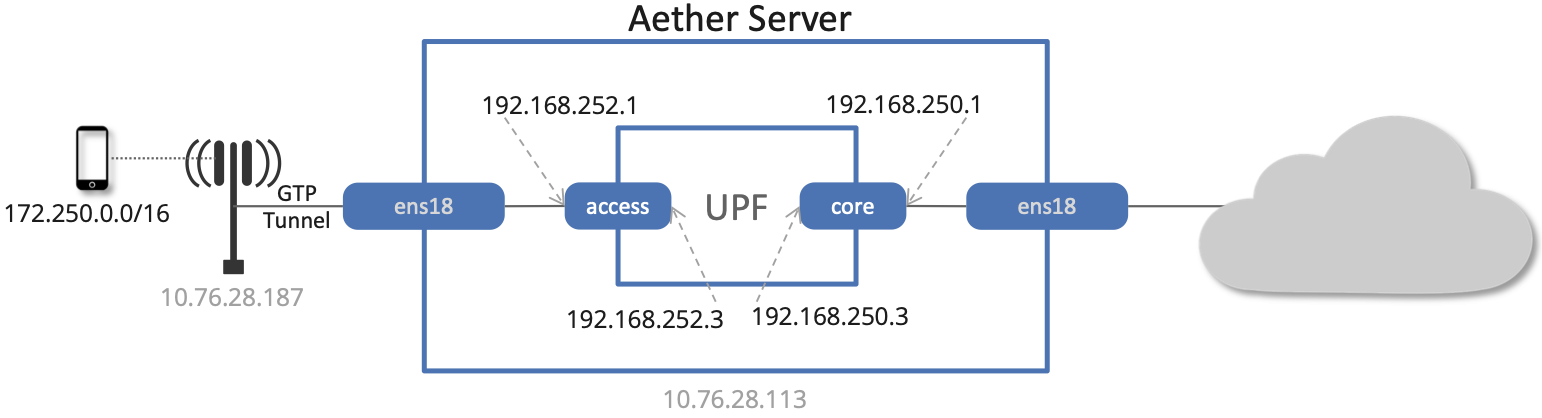
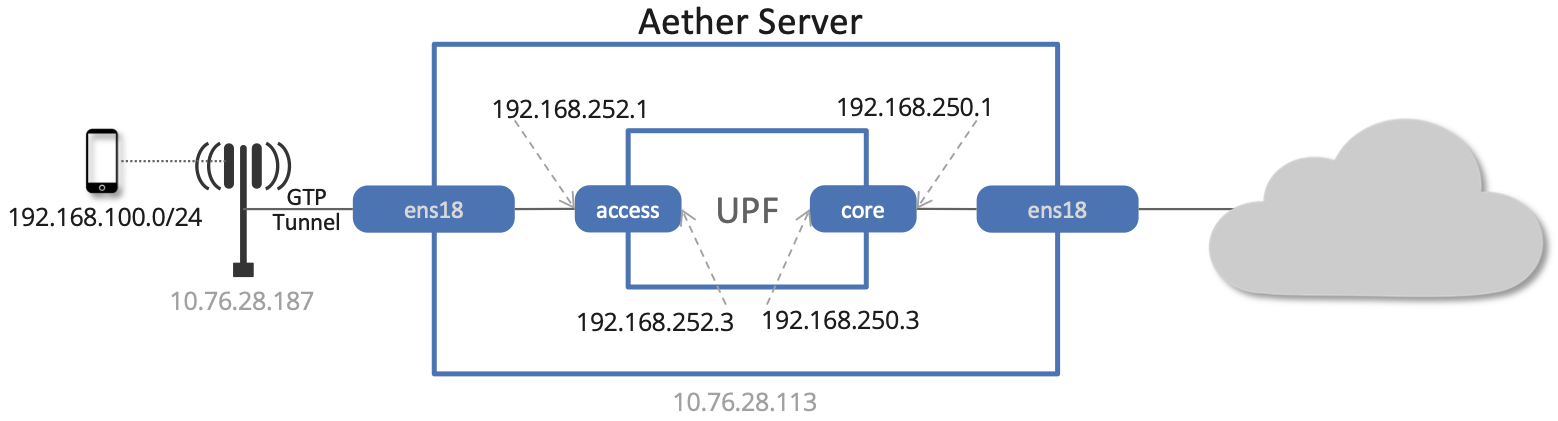
updated ue_ip_pool subnet

diff --git a/onramp/network.rst b/onramp/network.rst
@@ -134,7 +134,7 @@ The default route via ``192.168.250.1`` directs upstream packets to
 the Internet via the ``core`` interface, with a next hop of the
 ``core`` interface outside the UPF.  These packets then undergo source
 NAT in the kernel and are sent to the IP destination in the packet.
-This means that the ``172.250.0.0/16`` addresses assigned to UEs are
+This means that the ``192.168.100.0/24`` addresses assigned to UEs are
 not visible beyond the Aether server. The return (downstream) packets
 undergo reverse NAT and now have a destination IP address of the UE.
 They are forwarded by the kernel to the ``core`` interface by these
@@ -144,11 +144,11 @@ rules on the server:
 
    $ route -n | grep "Iface\|core"
    Destination     Gateway         Genmask         Flags Metric Ref    Use Iface
-   172.250.0.0     192.168.250.3   255.255.0.0     UG    0      0        0 core
+   192.168.100.0     192.168.250.3   255.255.0.0     UG    0      0        0 core
    192.168.250.0   0.0.0.0         255.255.255.0   U     0      0        0 core
 
 The first rule above matches packets to the UEs on the
-``172.250.0.0/16`` subnet.  The next hop for these packets is the
+``192.168.100.0/24`` subnet.  The next hop for these packets is the
 ``core`` IP address inside the UPF.  The second rule says that next
 hop address is reachable on the ``core`` interface outside the UPF.
 As a result, the downstream packets arrive in the UPF where they are
@@ -232,7 +232,7 @@ sections, but for a summary, see the :doc:`Quick Reference </onramp/ref>`.
                 ip:
                     access: "192.168.252.3/24"
                     core:   "192.168.250.3/24"
-                ue_ip_pool: "172.250.0.0/16"
+                ue_ip_pool: "192.168.100.0/24"
         amf:
             ip: "10.76.28.113"
 
@@ -263,8 +263,8 @@ example ``ens18`` interface for illustrative purposes:
    $ sudo tcpdump -i any sctp -w sctp-test.pcap
    $ sudo tcpdump -i ens18 port 2152 -w n3-outside.pcap
    $ sudo tcpdump -i access port 2152 -w n3-inside.pcap
-   $ sudo tcpdump -i core net 172.250.0.0/16 -w n6-inside.pcap
-   $ sudo tcpdump -i ens18 net 172.250.0.0/16 -w n6-outside.pcap
+   $ sudo tcpdump -i core net 192.168.100.0/24 -w n6-inside.pcap
+   $ sudo tcpdump -i ens18 net 192.168.100.0/24 -w n6-outside.pcap
 
 The first trace, saved in file ``sctp.pcap``, captures SCTP packets
 sent to establish the control path between the base station and the
@@ -284,7 +284,7 @@ the interface to ``access`` corresponds to "inside" the UPF.  Running
 Similarly, the fourth and fifth traces, saved in files
 ``n6-inside.pcap`` and ``n6-outside.pcap``, respectively, capture IP
 packets on the Internet side of the UPF (over the **N6** interface).
-In these two tests, ``net 172.250.0.0/16`` corresponds to the IP
+In these two tests, ``net 192.168.100.0/24`` corresponds to the IP
 addresses assigned to UEs by the SMF. Running ``ping`` from a physical
 UE will generate the relevant user plane traffic; gNBsim automatically
 triggers this activity.

diff --git a/onramp/ref.rst b/onramp/ref.rst
@@ -104,6 +104,9 @@ the list is not comprehensive.
    * - `core.upf.mode`
      - `af_packet`
      - Socket mode for `core.data_iface`; set to `dpdk` to enable DPDK and SR-IOV optimizations.
+   * - `core.upf.multihop_gnb`
+     - `false`
+     - Routing from `core.data_iface`; set to `true` when external gNB is multiple hops away.
    * - `gnbsim.data_iface`
      - `ens18`
      - Network interface used by gNBsim; same as `core.data_iface` when co-located on a single server.
@@ -315,7 +318,7 @@ do not need to be modified for an initial deployment of a blueprint.
    * - `192.168.252.0/24`
      - ``core.upf.access_subnet``
      - Assigned to `access` bridge that connects UPF(s) to the RAN.
-   * - `172.250.0.0/16`
+   * - `192.168.100.0/24`
      - ``core.default_upf.ue_ip_pool``
      - Assigned (by the Core) to UEs connecting to Aether. When
        multiple UPFs are deployed—in addition to

diff --git a/onramp/blueprints.rst b/onramp/blueprints.rst
@@ -130,7 +130,7 @@ of ``vars/main.yml``:
         ip:
           access: "192.168.252.3"
           core:   "192.168.250.3"
-        ue_ip_pool: "172.250.0.0/16"
+        ue_ip_pool: "192.168.100.0/24"
      additional_upfs:
         "1":
            ip:
@@ -877,7 +877,7 @@ parameters as follows:
         ip:
           access: "10.21.61.12"		#  same subnet as data_iface when multihop_gnb is true
           core:   "192.168.250.3"
-        ue_ip_pool: "172.250.0.0/16"
+        ue_ip_pool: "192.168.100.0/24"
 
 To connect multiple gNBs on different subnets, you must modify
 ``deps/5gc/roles/core/templates/sdcore-5g-values.yaml`` (if

diff --git a/onramp/gnb.rst b/onramp/gnb.rst
@@ -88,7 +88,7 @@ using.
                 ip:
                     access: "192.168.252.3/24"
                     core:   "192.168.250.3/24"
-                ue_ip_pool: "172.250.0.0/16"
+                ue_ip_pool: "192.168.100.0/24"
         amf:
             ip: "10.76.28.113"
 
